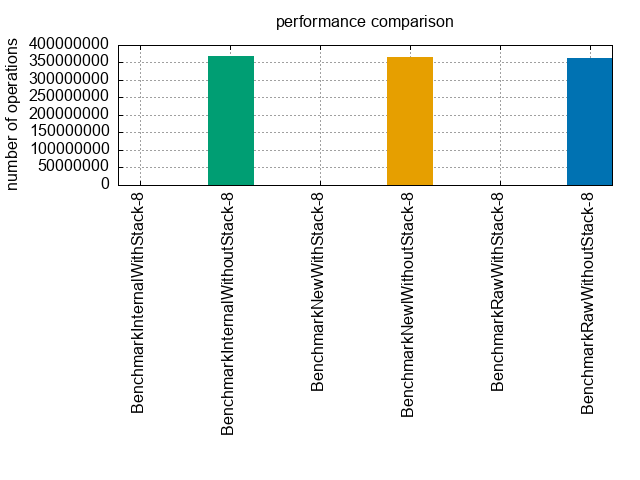
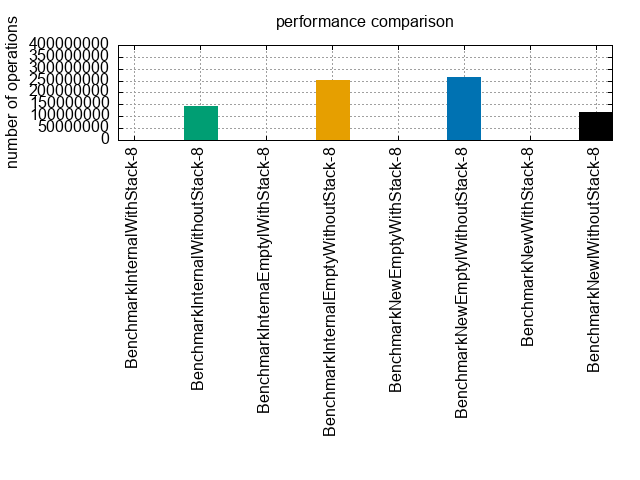
chore(docs): update benchmark

diff --git a/README.md b/README.md
@@ -17,13 +17,16 @@ Go 1.22
 goos: darwin
 goarch: arm64
 pkg: github.com/htquangg/aerrors
-BenchmarkInternalWithStack-8              447028              2658 ns/op            1768 B/op         13 allocs/op
-BenchmarkInternalWithoutStack-8         367436594                3.258 ns/op           0 B/op          0 allocs/op
-BenchmarkNewWithStack-8                   444240              2638 ns/op            1656 B/op         13 allocs/op
-BenchmarkNewlWithoutStack-8             365891073                3.265 ns/op           0 B/op          0 allocs/op
-BenchmarkRawWithStack-8                   445426              2623 ns/op            1656 B/op         13 allocs/op
-BenchmarkRawWithoutStack-8              361526726                3.313 ns/op           0 B/op          0 allocs/op
+BenchmarkInternalWithStack-8             1673311               685.7 ns/op          1536 B/op         11 allocs/op
+BenchmarkInternalWithoutStack-8         144404904                8.213 ns/op           0 B/op          0 allocs/op
+BenchmarkInternaEmptylWithStack-8        1567843               757.4 ns/op          1536 B/op         11 allocs/op
+BenchmarkInternalEmptyWithoutStack-8    252769448                4.510 ns/op           0 B/op          0 allocs/op
+BenchmarkNewEmptyWithStack-8             1701417               709.9 ns/op          1536 B/op         11 allocs/op
+BenchmarkNewEmptylWithoutStack-8        266327073                4.640 ns/op           0 B/op          0 allocs/op
+BenchmarkNewWithStack-8                  1658805               718.7 ns/op          1536 B/op         11 allocs/op
+BenchmarkNewlWithoutStack-8             117173900                9.539 ns/op           0 B/op          0 allocs/op
 ```
+
 ![operations](./assets/operations.png)
 ![time operations](./assets/time_operations.png)
 
